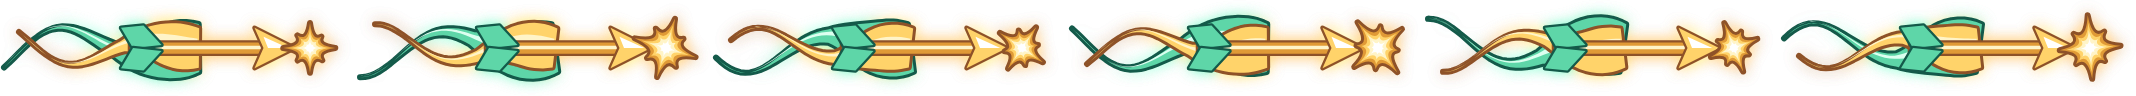
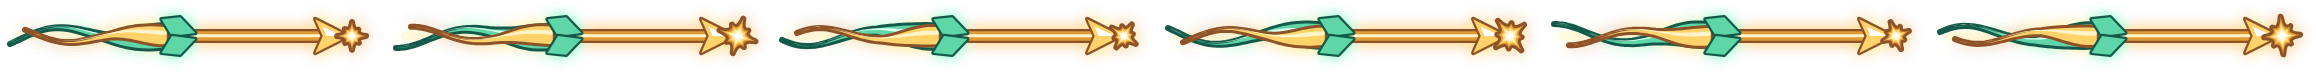
Slimmer archer arrows, smaller archer hit effects, level piercing shots
The Acrobat Archer's arrow is redrawn as a slim gold arrow with mint fletching, a thin mint
streamer and a soft speed streak (its big arrow likewise), in place of the fat ribbon tube. Her
hit mark and Firework Arrow are drawn smaller so they no longer cover her. A piercing shot now
keeps close to level instead of diving steeply when loosed from the top of a jump, and a line
tipped downward ends at the floor instead of flying on into the ground.

diff --git a/tools/fx-art.js b/tools/fx-art.js
@@ -9459,31 +9459,53 @@
   // Her arrow in flight (loops, toward +x): a gold arrow with a mint ribbon curling behind it and a
   // couple of sparkles.
   E.acarrow = grown((() => {
-    const cx = 120;
+    const cx = 150;
     const cy = 40;
     return {
-      w: 140, h: 80, n: 6, fps: 24, px: cx, py: cy, loop: true,
+      w: 170, h: 80, n: 6, fps: 24, px: cx, py: cy, loop: true,
       draw(ctx, i) {
-        trailRibbon(ctx, cx - 60, cy, 70, 12, (i / 6) * TAU);
-        goldArrow(ctx, cx, cy, 64, 0, 1);
-        for (let j = 0; j < 2; j++) sparkle(ctx, SHOWG, cx - 70 - j * 24, cy + (j ? 10 : -10) * Math.sin((i / 6) * TAU), 6 - j * 1.5, i + j);
+        const ph = (i / 6) * TAU;
+        // A soft speed streak behind it, then a thin mint streamer curling off the nock: the
+        // arrow itself stays clean and slim, a real arrow with a gold shaft, a sharp head and
+        // mint fletching.
+        ctx.globalAlpha = 0.55;
+        ctx.strokeStyle = SHOWG[1];
+        ctx.lineCap = 'round';
+        ctx.lineWidth = 3;
+        ctx.beginPath();
+        ctx.moveTo(cx - 84, cy);
+        ctx.lineTo(cx - 150, cy);
+        ctx.stroke();
+        ctx.globalAlpha = 1;
+        trailRibbon(ctx, cx - 82, cy, 64, 5, ph);
+        goldArrow(ctx, cx, cy, 82, 0, 0.9);
+        sparkle(ctx, SHOWG, cx - 104 - (i % 3) * 10, cy + 8 * Math.sin(ph), 4.5, i);
       },
     };
   })(), 1.8);
 
-  // Her big arrow (finishers, Showtime): a bigger gold arrow wrapped in two mint ribbons spiralling
-  // round it, a star burst at its head.
+  // Her big arrow (finishers, Showtime): a longer, heavier gold arrow, two thin ribbons spiralling
+  // round the streak behind it, and a small star flashing at its head.
   E.acbig = grown((() => {
-    const cx = 190;
+    const cx = 220;
     const cy = 60;
     return {
-      w: 230, h: 120, n: 6, fps: 24, px: cx, py: cy, loop: true,
+      w: 250, h: 120, n: 6, fps: 24, px: cx, py: cy, loop: true,
       draw(ctx, i) {
         const ph = (i / 6) * TAU;
-        trailRibbon(ctx, cx - 70, cy, 130, 22, ph);
-        trailRibbon(ctx, cx - 70, cy, 120, 18, ph + Math.PI, ['#ffffff', '#fff4c8', '#ffd36a', '#e09a36', '#8e5228']);
-        goldArrow(ctx, cx - 6, cy, 110, 0, 1.5);
-        starburst(ctx, SHOWG, cx + 4, cy, 18 + (i % 2) * 4, 8, 601, { inner: 0.4, rot: i * 0.3 });
+        ctx.globalAlpha = 0.5;
+        ctx.strokeStyle = SHOWG[1];
+        ctx.lineCap = 'round';
+        ctx.lineWidth = 6;
+        ctx.beginPath();
+        ctx.moveTo(cx - 120, cy);
+        ctx.lineTo(cx - 220, cy);
+        ctx.stroke();
+        ctx.globalAlpha = 1;
+        trailRibbon(ctx, cx - 116, cy, 110, 9, ph);
+        trailRibbon(ctx, cx - 116, cy, 100, 7, ph + Math.PI, SHOWG);
+        goldArrow(ctx, cx, cy, 120, 0, 1.25);
+        starburst(ctx, SHOWG, cx + 2, cy, 10 + (i % 2) * 3, 8, 601, { inner: 0.4, rot: i * 0.3 });
       },
     };
   })(), 1.6);

diff --git a/src/world/melee.js b/src/world/melee.js
@@ -38,7 +38,7 @@ import { tickPhantom, copiesShoot, vanishAgain, doveBurst, grandIllusion } from 
 import { tickIdol, spotlight as idolSpotlight, hypeWave, lullaby, curtainCall, grandConcert } from './idol.js';
 import { tickAstro, gravityWell, planetaryAlignment } from './astro.js';
 import { launchWisp } from './foxwheel.js';
-import { GRAVITY } from './physics.js';
+import { GRAVITY, groundAt } from './physics.js';
 import { tickEngineer, stickyBurst, clusterBurst, overclocked, deployTurret } from './engineer.js';
 import { provoke, healMembers, groupOf } from './dungeon.js';
 import { allyElement } from './reactions.js';
@@ -2083,7 +2083,15 @@ function fire(world, strike) {
     // It flies at the first monster in its line (up or down to it, from the air or onto a slope)
     // and on through, out to its full range; each one it passes is hit as the bolt gets there.
     const first = line[0];
-    const aim = first ? Math.atan2(first.y - (first.air ?? 0) - first.def.h / 2 - oy, first.x - ox) : s.dir > 0 ? 0 : Math.PI;
+    let aim = first ? Math.atan2(first.y - (first.air ?? 0) - first.def.h / 2 - oy, first.x - ox) : s.dir > 0 ? 0 : Math.PI;
+    // A level shot keeps close to level (it may tip to meet a monster a little above or below, never
+    // dive steeply because she loosed it from the top of a jump); a shot aimed up or down keeps its
+    // aim.
+    if (!s.drop && !s.lift) {
+      const level = s.dir > 0 ? 0 : Math.PI;
+      const off = Math.atan2(Math.sin(aim - level), Math.cos(aim - level));
+      aim = level + Math.max(-PIERCE_TIP, Math.min(PIERCE_TIP, off));
+    }
     const ux = Math.cos(aim);
     const uy = Math.sin(aim);
     // A whirling shot keeps cutting what it passes (`ticks` more times, `tickGap` apart).
@@ -2105,7 +2113,9 @@ function fire(world, strike) {
         });
       });
     }
-    const len = Math.max(s.range, first ? Math.hypot(first.x - ox, first.y - oy) + 60 : 0);
+    let len = Math.max(s.range, first ? Math.hypot(first.x - ox, first.y - oy) + 60 : 0);
+    // (Tipped downward it ends at the floor under the line, never flying on into the ground.)
+    if (uy > 0.02) len = Math.min(len, Math.max(40, (groundAt(world.map, ox + ux * len) - 4 - oy) / uy));
     fly(ox + ux * len, oy + uy * len, first, len);
     return;
   }
@@ -2226,6 +2236,8 @@ function ringThrow(world, s, ox, oy, speed, box, element) {
 }
 
 // The Spell Juggler's orbs, her palm spark and her finisher orbs (world/juggle.js).
+// How far a level piercing shot may tip toward a monster above or below its line (radians).
+const PIERCE_TIP = 0.28;
 const JG_SHOTS = new Set(['jgfire', 'jgice', 'jgbolt', 'jgpalm', 'jgpotato', 'jgbigfire', 'jgbigice', 'jgbigbolt']);
 const SKY_SHOTS = new Set(['skygust', 'skygustbig']);
 const STAR_SHOTS_WITCH = new Set(['stbolt', 'stcomet']);

diff --git a/src/render/archery.js b/src/render/archery.js
@@ -368,12 +368,12 @@ export function drawArchery(ctx, f, x, y, p, cam, time) {
     case 'achit': {
       // The Acrobat Archer's arrow landing: a gold star popping in a loop of mint ribbon, then
       // confetti; heavy shots are bigger.
-      return fxSprite(ctx, 'celachit', x, y - (f.h ?? 24) / 2, { p, flip, scale: f.big || f.crit ? 0.6 : 0.44 }) || true;
+      return fxSprite(ctx, 'celachit', x, y - (f.h ?? 24) / 2, { p, flip, scale: f.big || f.crit ? 0.5 : 0.4 }) || true;
     }
     case 'acfirework':
       // Firework Arrow going off.
       // (drawn about as wide as the blast it deals, 50-80 px round its target)
-      return fxSprite(ctx, 'celacfirework', x, y - (f.h ?? 24) / 2, { p, scale: 0.8 }) || true;
+      return fxSprite(ctx, 'celacfirework', x, y - (f.h ?? 24) / 2, { p, scale: 0.5 }) || true;
     case 'pthat':
       // Levitation: the giant top hat over the stage, flipping over and pouring her arrows, cards and
       // doves down on everything below.

diff --git a/src/render/fx-sheets.js b/src/render/fx-sheets.js
@@ -304,8 +304,8 @@ export const FX_SHEETS = {
   celshockmint: { w: 592, h: 207, n: 7, fps: 24, px: 297, py: 103, d: 3, loop: false },
   celshockplum: { w: 592, h: 205, n: 7, fps: 24, px: 296, py: 103, d: 3, loop: false },
   celembastro: { w: 133, h: 132, n: 5, fps: 12, px: 70, py: 81, d: 3, loop: false },
-  celacarrow: { w: 237, h: 74, n: 6, fps: 24, px: 222, py: 38, d: 3, loop: true },
-  celacbig: { w: 356, h: 96, n: 6, fps: 24, px: 304, py: 48, d: 3, loop: true },
+  celacarrow: { w: 286, h: 65, n: 6, fps: 24, px: 270, py: 32, d: 3, loop: true },
+  celacbig: { w: 386, h: 72, n: 6, fps: 24, px: 349, py: 36, d: 3, loop: true },
   celachit: { w: 288, h: 286, n: 7, fps: 30, px: 149, py: 182, d: 3, loop: false },
   celacfirework: { w: 454, h: 489, n: 8, fps: 24, px: 226, py: 200, d: 3, loop: false },
   celacribbon: { w: 100, h: 102, n: 6, fps: 12, px: 50, py: 51, d: 3, loop: true },
